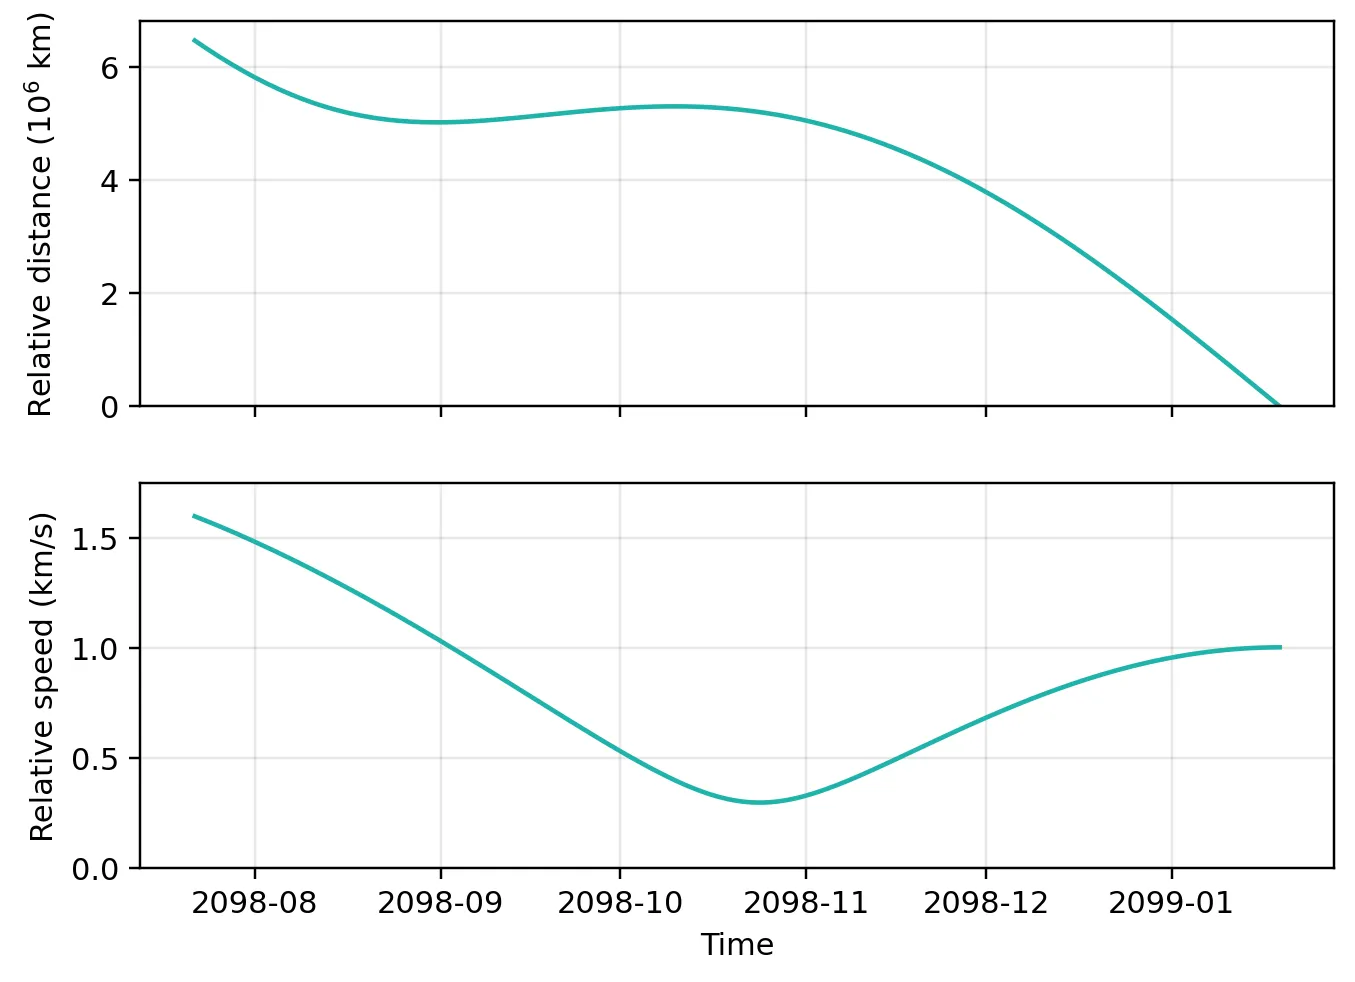
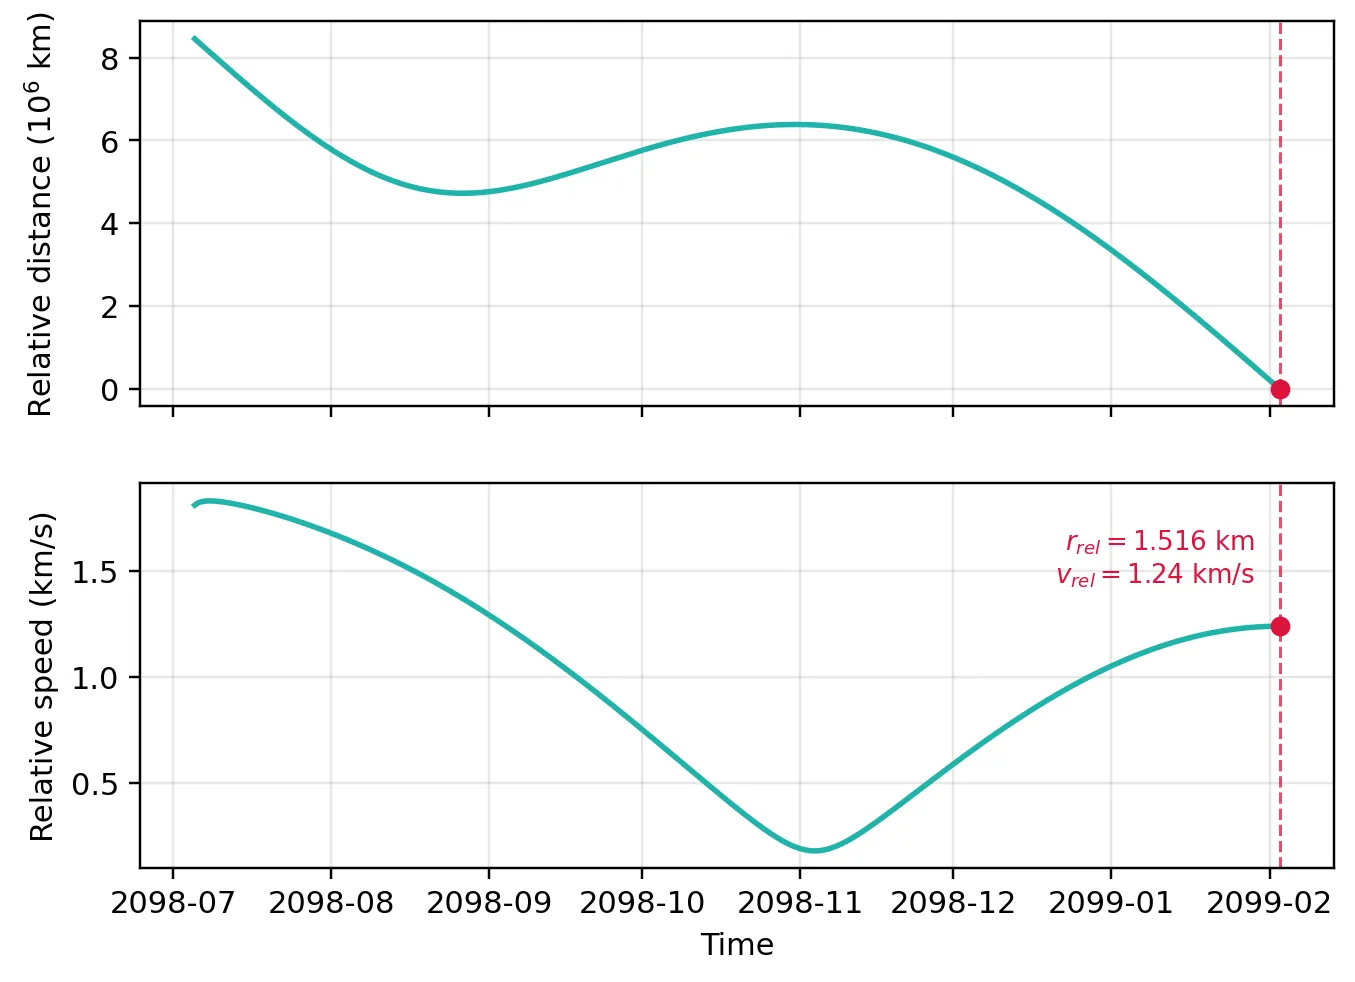
aa29 update

diff --git a/_posts/2026-09-07-2002AA29.md b/_posts/2026-09-07-2002AA29.md
@@ -29,44 +29,59 @@ image: "/assets/images/posts/2026-09-07-2002AA29/aa29_approach_3d.webp"
 먼저 100년 이하의 주기로 지구와 최근접하는 것으로 분석되었고, 이 과정에서 말발굽 궤도를 그린다. 최근접 시기마다 궤도 요소들이 계단식으로 변하다가 2577년경 지구의 준위성으로 편입되며, 이는 공명각이 0에서 진동하는 것으로 확인할 수 있었다. 여기서 준위성 단계의 시작과 끝에서 야코비 상수가 극값을 가지고, 준위성 단계에서는 다른 시기와 확연히 구분되는 선형적 감소를 보인다는 점에서 야코비 상수를 준위성 판단의 보조 지표로 활용할 수 있음을 보였다. 이후 2623년경 다시 말발굽 궤도로 돌아가게 된다.
 
 ## 2체 문제에서의 탐사 궤적 최적화
+### 람베르트 문제
 첫 최근접 시기인 2100년경에 탐사 임무를 설정하는 것이 가장 효율적일 것이라고 판단하였다. 먼저 간단한 2체 Lambert 문제를 풂으로써 지구에서 출발해 2002AA29까지 도달하는 궤적을 도출할 수 있었다. Lambert 문제는 중심천체의 $\mu$, 출발 시점에서의 위치벡터 $\mathbf{r}(t_1)$과 도착 시점에서의 위치벡터 $\mathbf{r}(t_2)$, 그리고 비행시간 $\Delta t=t_2-t_1$을 통해 궤도를 특정하는 문제이다.
 
 Solver는 Python의 lamberthub에서 제공하는 것 중 `gooding1990`을 이용하였고, revolution은 0회로 설정하였다. 사용한 함수는 아래와 같다.
 
 ```python
-def solveLambert(
+def solve_lambert(
     earth_dep: StateVector,
     target_arr: StateVector,
     dep_jd: float,
     arr_jd: float,
     *,
     mu: float = MU_SUN,
-)
-  tof_days = float(arr_jd - dep_jd)
+) -> TransferResult:
+    tof_days = float(arr_jd - dep_jd)
 
-  v_sc_dep, v_sc_arr = gooding1990(
-      mu,
-      earth_dep.r,
-      target_arr.r,
-      tof_days,
-      M=0,
-      prograde=True,
-  )
+    v_sc_departure, v_sc_arrival = gooding1990(
+        mu,
+        earth_dep.r,
+        target_arr.r,
+        tof_days,
+        M=0,
+        prograde=True,
+        low_path=True,
+    )
 
-  vinf_dep_au_day = np.linalg.norm(v_sc_dep - earth_dep.v)
-  vinf_arr_au_day = np.linalg.norm(v_sc_arr - target_arr.v)
+    # 행성 기준 초과속도 벡터 [AU/day]
+    vinf_dep_vec_au_day = v_sc_departure - earth_dep.v
+    vinf_arr_vec_au_day = v_sc_arrival - target_arr.v
 
-  vinf_dep_km_s = float(au_per_day_to_km_per_s(vinf_dep_au_day))
-  vinf_arr_km_s = float(au_per_day_to_km_per_s(vinf_arr_au_day))
+    # 벡터 전체를 km/s로 변환
+    vinf_dep_vec_km_s = np.asarray(
+        au_per_day_to_km_per_s(vinf_dep_vec_au_day),
+        dtype=float,
+    )
+    vinf_arr_vec_km_s = np.asarray(
+        au_per_day_to_km_per_s(vinf_arr_vec_au_day),
+        dtype=float,
+    )
 
-  return TransferResult(
-      v_dep = v_sc_dep,
-      v_arr = v_sc_arr,
-      vinf_dep = vinf_dep_km_s,
-      vinf_arr = vinf_arr_km_s,
-      c3 = vinf_dep_km_s**2,
-      tof_days = tof_days,
-  )
+    vinf_dep_km_s = float(np.linalg.norm(vinf_dep_vec_km_s))
+    vinf_arr_km_s = float(np.linalg.norm(vinf_arr_vec_km_s))
+
+    return TransferResult(
+        v_dep=v_sc_departure,
+        v_arr=v_sc_arrival,
+        vinf_dep_vec=vinf_dep_vec_km_s,
+        vinf_arr_vec=vinf_arr_vec_km_s,
+        vinf_dep=vinf_dep_km_s,
+        vinf_arr=vinf_arr_km_s,
+        c3=vinf_dep_km_s**2,
+        tof_days=tof_days,
+    )
 ```
 
 2090년부터 2110년까지의 NASA JPL Horizons 데이터를 호출한 뒤 해당 일자 중 TOF가 30일부터 730일까지의 기간을 갖도록 출발 시기와 도착 시기를 바꿔가며 5일 간격으로 계산하였다. 그 결과 그려진 $C_3$와 도착 $v_\infty$ 산점도는 아래와 같다. 
@@ -76,59 +91,190 @@ def solveLambert(
   <figcaption>출발 $C_3$와 도착 $v_\infty$ 산점도.</figcaption>
 </figure>
 
-산점도 전면에 명확한 front가 관찰되는 모습으로, 여기서 $C_3$는 0에 가까운 수치부터 30km²/s²의 범위를 가지며, 도착 $v_\infty$는 이와 trade-off 관계로 6km/s부터 0까지의 범위를 가지는 것으로 관찰되었다. 
+산점도 전면에 명확한 front가 관찰되는 모습으로, 여기서 $C_3$는 0에 가까운 수치부터 30km²/s²의 범위를 가지며, 도착 $v_\infty$는 이와 trade-off 관계로 6km/s부터 0까지의 범위를 가지는 것으로 관찰되었다. 또한, front에 가까운 영역에 TOF가 짧은 해들이 몰려있는 것 또한 관찰되었다.
 
 ULA의 Vulcan Centaur는 화성행 미션의 $C_3$를 20km²/s² 정도로 잡고 있으므로, 이와 같은 고에너지 지구탈출 케이스와 비교하기 위해 이를 이번 미션의 상한값으로 설정하였다. 따라서 front에서 $C_3$가 10, 15, 20km²/s²인 경우를 대푯값으로 선정하여 해당 기간을 1일 간격으로 재계산하였고, 그 결과에서 $C_3\le20$인 경우 중 $v_\infty$가 최소인 값을 선정하였다.
 
 | 출발일 | 도착일 | 비행시간 | $C_3$ | 목표 도착 $v_\infty$ |
 |---|---|---|---|---|
-| JD 2487526.5 | JD 2487722.5 | 196.0 days | 19.94976km²/s² | 1.065905km/s |
+| JD 2487522.5 | JD 2487737.5 | 215.0 days | 19.787771 km²/s² | 1.171324 km/s |
 
-이 상태로 수치적분을 돌리면 지구와 좌표가 겹치므로, 우선 15일 이후(JD 2487541.5)로 전파시킨 후의 값을 초기값으로 채용하였다. 이는 발사체의 주차궤도 탈출 및 출발 후 15일간의 근지구 운동을 의미하지는 않는다.
+### 탈출 쌍곡선 궤도 계산
+쌍곡선 궤도를 비행하는 탐사선이 초과속도($v_\infty$)에 가까워질 때의 비행각은 기준각에 대해 다음과 같다.
+
+$$\theta_\infty=\arccos\left(-\frac{1}{e}\right)$$
+
+따라서 $v_\infty$의 단위벡터를 $-\theta_\infty$만큼 회전시키면 근지점에서의 속도단위벡터를 구할 수 있고, 그 크기는 활력방정식으로 구할 수 있다. 이를 구현한 코드는 아래와 같다.
+
+```
+def make_escape_hyperbola(
+    vinf_dep_vec,
+    parking_alt_km,
+    h_hat=None,
+):
+    # vinf_dep_vec : ndarray, shape (3,) / Lambert 해에서 얻은 지구 기준 출력 초과속도 벡터 [km/s]
+    # parking_alt_km : float / 주차궤도 고도 [km]
+    # h_hat : ndarray, shape (3,), optional / 탈출 쌍곡선 궤도면의 법선 단위벡터 (none이면 임의)
+    
+    vinf = np.linalg.norm(vinf_dep_vec)
+    s_hat = unit(vinf_dep_vec)
+
+    # 궤도 평면
+    if h_hat is None:
+        reference = np.array([0.0, 0.0, 1.0])
+
+        # vinf가 z축과 거의 평행하면 다른 기준축 사용
+        if abs(np.dot(s_hat, reference)) > 0.99:
+            reference = np.array([0.0, 1.0, 0.0])
+
+        h_hat = unit(np.cross(s_hat, reference))
+    else:
+        h_hat = unit(h_hat)
+
+    # 궤도면 불일치
+    if not np.isclose(np.dot(s_hat, h_hat), 0.0, atol=1e-8):
+        raise ValueError(
+            "h_hat must be perpendicular to vinf_dep_vec "
+            "for a coplanar parking-orbit injection."
+        )
+
+    r_p = R_EARTH + parking_alt_km
+
+    # 쌍곡선 궤도 요소
+    e = 1 + r_p * vinf**2 / MU_EARTH
+    f = np.arccos(-1 / e) # 진근점이각
+
+    # 근지점 벡터 계산
+    r_hat_p = rodrigues(s_hat, h_hat, -f) # 속도벡터 회전 -> 근지점 설정
+    t_hat_p = unit(np.cross(h_hat, r_hat_p)) # 위치벡터 구하기
+    v_hyp_p = np.sqrt(vinf**2 + 2 * MU_EARTH / r_p) # 속도 구하기
+    v_circ = np.sqrt(MU_EARTH / r_p) # 케플러 속도
+
+    r_p_vec = r_p * r_hat_p # 근지점 위치벡터
+    v_hyp_p_vec = v_hyp_p * t_hat_p # 쌍곡선궤도 속도벡터
+    v_parking_vec = v_circ * t_hat_p # 주차궤도 속도벡터
+    delta_v_tmi_vec = v_hyp_p_vec - v_parking_vec # injection 시 Delta V
+
+    return {
+        "r_p_km": r_p_vec,
+        "v_hyp_p_km_s": v_hyp_p_vec,
+        "v_parking_km_s": v_parking_vec,
+        "delta_v_tmi_km_s": delta_v_tmi_vec,
+
+        "r_p_norm_km": np.linalg.norm(r_p_vec),
+        "v_hyp_p_norm_km_s": np.linalg.norm(v_hyp_p_vec),
+        "delta_v_tmi_norm_km_s": np.linalg.norm(delta_v_tmi_vec),
+
+        "vinf_norm_km_s": vinf,
+        "eccentricity": e,
+        "f_inf_deg": np.degrees(f),
+        "h_hat": h_hat,
+    }
+```
+
+주차궤도는 고도 200km의 LEO로 설정하였다. 그러나 이를 통해 출력된 값을 그대로 초기값으로 하여 수치적분하기에는 지구와 너무 가까워 문제가 있었다. 이를 해결하기 위해 우선 지구의 SOI까지 전파시킨 결과, JD 2487524.732412126381에 SOI에 도달하는 것으로 분석되었으며, 이 시점을 기준 시간으로 잡았다.
 
 ## 수치적분을 통한 도착 오차 분석
 ### 최초 실행
 
-|   | $x$ | $y$ | $z$ |
-|---|---|---|---|
-| $\mathbf{r}$ [au] | 0.4835385 | -0.89729962 | -0.03789595 |
-| $\mathbf{v}$ [au/day] | 0.0148363 | 0.0078598 | -0.00248766 |
-
-1차 시도에서는 목표까지의 거리가 116,706.9km로 큰 오차가 발생하였다. 이를 해결하기 위해 각 속도 성분에 $\delta v=10^{-6}\;\mathrm{AU/day}$의 미소 섭동을 각각 가한 세 번의 수치적분으로 도착 위치의 Jacobian을 구성하였고, 이후 도착 이탈 위치와 초기값의 선형 가정을 통해 보정값을 도출하였다. 
-
 ```
-1st Correction [m/s]
-[ -8.616595770657057 -5.1086613602270035 -73.27580049888552 ]
-```
+=== Run 1 - nominal ===
+r [au]     : [ 0.218984893111402  -0.993473708383355  -0.0059182258779486 ]
+v [au/day] : [ 0.0164776123110262  0.0033919204486737 -0.0026121392660319 ]
 
-### 2번 실행
+=== Run 1 - tangent test: +0.010 m/s ===
+r [au]     : [ 0.218984892635684  -0.9934737316228257 -0.0059182542998412 ]
+v [au/day] : [ 0.016477612078817   0.0033919101599327 -0.0026121531394292 ]
 
-|   | $x$ | $y$ | $z$ |
-|---|---|---|---|
-| $\mathbf{r}$ [au] | 0.4835385 | -0.89729962 | -0.03789595 |
-| $\mathbf{v}$ [au/day] | 0.0148313234995251 |  0.0078568495011763 | -0.0025299803160144 |
+=== Run 1 - normal test: +0.010 m/s ===
+r [au]     : [ 0.2189848966021198 -0.9934737083833637 -0.0059182259363864 ]
+v [au/day] : [ 0.0164776137635691  0.0033919204486699 -0.0026121392903496 ]
 
-2차 시도에서는 목표까지의 거리가 4,547.0km로 비교적 줄었지만 여전히 오차가 크므로, 다시 보정하였다.
+=== Run 1 - phase test: +0.000057 deg ===
+r [au]     : [ 0.2189848930993746 -0.9934737022487481 -0.0059182265965272 ]
+v [au/day] : [ 0.0164776123067279  0.0033919230606224 -0.0026121395228364 ]
 
-```
-Second correction [m/s]
-[ -0.0249525027642017 -0.0194057472420637  0.3976249817186392 ]
+=== Run 1 - result ===
+Miss [km]      : [ -75780.57602185705 -88927.62637008868 159401.60354686342 ]
+Miss norm [km] : 197635.24394027994
 ```
 
-### 3번 실행
+1차 시도에서는 목표까지의 거리가 약 197635 km로 큰 오차가 발생하였다. 이를 해결하기 위해 normal, tangent 방향 속도와 궤도의 위상에 미소 섭동을 각각 가한 세 번의 수치적분으로 도착 위치의 Jacobian을 구성하였고, 이후 도착 이탈 위치와 초기값의 선형 가정을 통해 보정값을 도출하였다. 
 
-|   | $x$ | $y$ | $z$ |
-|---|---|---|---|
-| $\mathbf{r}$ [au] | 0.4835385 | -0.89729962 | -0.03789595 |
-| $\mathbf{v}$ [au/day] | 0.0148313090882489 |  0.0078568382934195 | -0.0025297506683713 |
+```
+Tangential correction [m/s] : -25.2720839049471
+Normal correction [m/s]     :  42.830656715426144
+Phase correction [deg]      :  -0.583830690461398
+```
 
-3차 시도에서는 목표까지의 거리가 48.5km로 도출되었다. 이는 목표 천체의 크기보다 여전히 큰 값이므로 정밀 근접운용을 위한 해는 아니지만, 본 연구의 단순화된 다체 동역학 검증에서 Lambert 초기해가 수십 km 수준까지 보정 가능함을 보인다.
+### 2차 실행
+
+```
+=== Run 2 - nominal ===
+r [au]     : [ 0.2190008788245177 -0.99347691868799   -0.0058392110341201 ]
+v [au/day] : [ 0.0164843287792402  0.0033915700528674 -0.0025744770824569 ]
+
+=== Run 2 - tangent test: +0.010 m/s ===
+r [au]     : [ 0.219000878461371  -0.9934769421842726 -0.0058392396956151 ]
+v [au/day] : [ 0.0164843285992475  0.0033915596519533 -0.0025744911047605 ]
+
+=== Run 2 - normal test: +0.010 m/s ===
+r [au]     : [ 0.2190008822458898 -0.9934769187627871 -0.0058392111879516 ]
+v [au/day] : [ 0.0164843301992063  0.0033915700194774 -0.0025744771539928 ]
+
+=== Run 2 - phase test: +0.000057 deg ===
+r [au]     : [ 0.2190008788124365 -0.9934769126326549 -0.0058392117559088 ]
+v [au/day] : [ 0.016484328774936   0.0033915726270466 -0.002574477339612  ]
+
+=== Run 2 - result ===
+Miss [km]      : [ -12686.748967908798 -10471.880921095493 2095.1327741313357 ]
+Miss norm [km] : 16583.228598242804
+```
+
+2차 시도에서는 목표까지의 거리가 약 16583 km로 비교적 줄었지만 여전히 오차가 크므로, 다시 보정하였다.
+
+```
+Tangential correction [m/s] :  0.03162744307933597
+Normal correction [m/s]     :  0.7486773882154623
+Phase correction [deg]      : -0.0051237639178069415
+```
+
+### 3차 실행
+
+```
+=== Run 3 - nominal ===
+r [au]     : [ 0.2190011349135082 -0.9934775401623243 -0.0058392486829256 ]
+v [au/day] : [ 0.0164844349076509  0.0033913044328732 -0.0025745038074752 ]
+
+=== Run 3 - tangent test: +0.010 m/s ===
+r [au]     : [ 0.2190011345524432 -0.9934775636612063 -0.0058392773416829 ]
+v [au/day] : [ 0.0164844347286348  0.0033912940306683 -0.0025745178285073 ]
+
+=== Run 3 - normal test: +0.010 m/s ===
+r [au]     : [ 0.2190011383349606 -0.993477540238437  -0.0058392488384364 ]
+v [au/day] : [ 0.0164844363276539  0.0033913043988953 -0.002574503879842  ]
+
+=== Run 3 - phase test: +0.000057 deg ===
+r [au]     : [ 0.2190011349014167 -0.9934775341069576 -0.0058392494053363 ]
+v [au/day] : [ 0.0164844349033422  0.0033913070070765 -0.0025745040648962 ]
+
+=== Run 3 - result ===
+Miss [km]      : [ 1.4830792022327837  0.2668104121046941 -0.1665995345890995 ]
+Miss norm [km] : 1.5160696293469542
+```
+
+3차 시도에서는 목표까지의 거리가 1.52km로 도출되었다. 해당 시점에서의 상대속도는 1.2398 km/s이므로 고속 근접 통과라는 측면의 목표는 달성했다고 볼 수 있다.
 
 ## 최종 결과
 
 <figure class="figure-85">
+  <img src="{{ '/assets/images/posts/2026-09-07-2002AA29/earth_escape_hyperbola.webp' | relative_url }}">
+  <figcaption>탐사선의 출발 궤적.</figcaption>
+</figure>
+
+<figure class="figure-85">
   <img src="{{ '/assets/images/posts/2026-09-07-2002AA29/aa29_approach_3d.webp' | relative_url }}">
-  <figcaption>탐사선의 접근 궤적.</figcaption>
+  <figcaption>탐사선의 비행 궤적.</figcaption>
 </figure>
 
 <figure class="figure-85">
@@ -138,15 +284,10 @@ Second correction [m/s]
 
 | 항목 | 값 |
 |---|---|
-| 출발일 | JD 2487526.5 |
-| 도착일 | JD 2487722.5 |
-| 비행시간 | 196.0 days |
-| 지구 출발 $C_3$ | 19.94976 km²/s² |
-| 목표 도착 $v_\infty$ | 1.065905 km/s |
-| 보정 시각 | JD 2487541.5 |
-| 순 속도 보정량 | 73.57 m/s |
-| 보정 후 도착 위치오차 | 48.5 km |
-| 보정 후 도착 상대속도 | 1.0048 km/s |
-
-## 준위성 시기와의 비교
-앞서 얻은 탐사 조건을 준위성 시기와 비교하여 더 효율적인 임무가 가능할지 여부를 분석하였다. 준위성 기간에서 약 1년 정도의 앞뒤 여유를 두고 JD 2662656.5부터 JD 2678725.5까지의 기간에 대해 앞선 과정을 반복하였다.
+| 출발일 | JD 2487522.5 |
+| 도착일 | JD 2487737.5 |
+| 비행시간 | 215.0 days |
+| 지구 출발 $C_3$ | 19.1909 km²/s² |
+| 탈출궤도 투입 Δv  | 4.064 km/s |
+| 목표 도착 $v_\infty$ | 1.2398 km/s |
+| 도착 위치오차 | 1.52 km |
